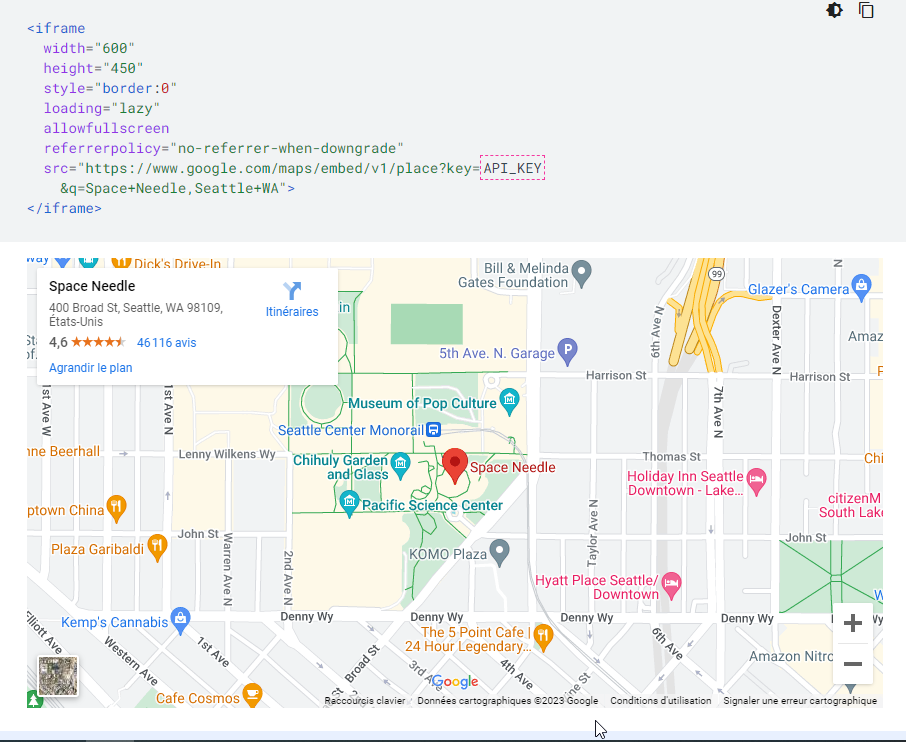
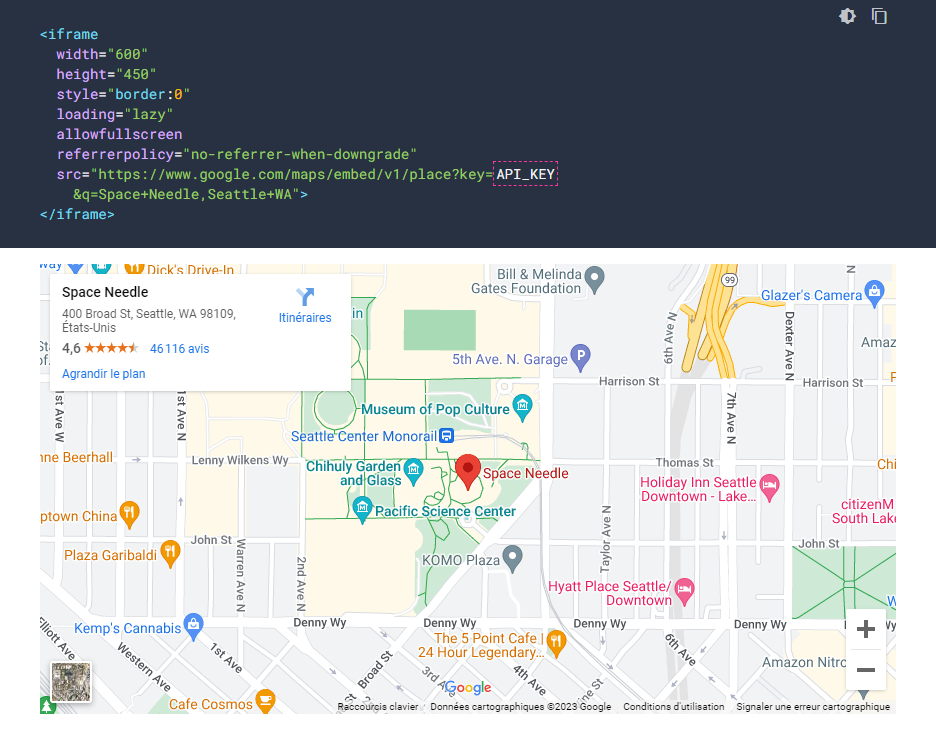
api changes

diff --git a/api2.css b/api2.css
@@ -1,0 +1,195 @@
+/* PARAMETRES GENERAUX */
+* {
+  padding: 0;
+  margin: 0;
+  box-sizing: border-box;
+}
+
+body {
+  display: flex;
+  flex-direction: column;
+  justify-content: space-between;
+  background: #fefefe;
+  font-family: "Lato", sans-serif;
+  width: 100%;
+  text-align: left;
+  overflow-x: hidden;
+}
+
+/* PARAMETRES HEADER */
+header {
+  width: 100vw;
+  display: flex;
+  align-items: center;
+  justify-content: space-evenly;
+  background: #1e1e1e;
+  padding: 5px 0 5px 50px;
+}
+
+/* PARAMETRES NAV */
+nav {
+  display: flex;
+  width: 100%;
+}
+
+nav ul {
+  display: flex;
+  list-style: none;
+  width: 100%;
+  justify-content: space-evenly;
+}
+
+nav a,
+nav a:visited {
+  color: #fefefe;
+  text-decoration: none;
+  font-weight: bold;
+  padding: 5px;
+  border-bottom: 2px solid #fefefe;
+}
+
+nav a:hover,
+nav a:visited:hover {
+  color: #7cc9f0;
+  border-bottom: 2px solid #7cc9f0;
+}
+
+/* PARAMETRES DU CONTENU */
+
+/* PARAMETRES FOOTER */
+
+footer {
+  width: 100%;
+  height: 5vh;
+  display: flex;
+  justify-content: center;
+  align-items: center;
+  background: #1e1e1e;
+  color: #fefefe;
+}
+
+footer a,
+footer a:visited {
+  color: #fefefe;
+  text-decoration: none;
+}
+
+footer a:hover {
+  color: #7cc9f0;
+}
+/**/
+
+h2 {
+  text-align: center;
+  margin-top: 10px;
+}
+h2 span {
+  color: #7cc9f0;
+}
+
+#logoHTML {
+  width: 10%;
+  margin: 20px auto;
+}
+
+.container {
+  width: 80%;
+  margin: auto auto;
+  display: flex;
+  flex-direction: column;
+}
+
+.container ul {
+  margin-bottom: 20px;
+}
+
+article {
+  width: 100%;
+  display: flex;
+  flex-direction: column;
+  align-items: center;
+}
+
+article img {
+  width: 20%;
+  display: flex;
+  align-content: center;
+  margin-bottom: 20px;
+}
+
+#imgGoogle {
+  width: 50%;
+  height: 50%;
+  display: flex;
+  align-content: center;
+  margin-top: 20px;
+}
+
+h4 {
+  margin: 10px 0;
+  text-align: center;
+  font-size: large;
+}
+
+h5:last-of-type {
+  margin: 20px 0;
+}
+
+h4:hover {
+  background-color: #7cc9f0;
+}
+
+.video {
+  margin: 0 auto 30px auto;
+  height: 70%;
+  width: 50%;
+}
+
+/* PARAMETRES RESPONSIVE */
+@media only screen and (orientation: portrait) {
+  /* HEADER RESPONSIVE */
+  header {
+    flex-direction: column;
+    padding: 0;
+  }
+  header img {
+    width: 100%;
+  }
+  nav {
+    padding: 5px;
+    font-size: 0.7em;
+    gap: 5px;
+  }
+  nav a,
+  nav a:visited {
+    padding: 2px;
+  }
+}
+
+@media only screen and (max-width: 950px) and (orientation: landscape) {
+  header {
+    flex-direction: column;
+    padding: 0;
+  }
+  header img {
+    width: 100%;
+  }
+  nav {
+    padding: 5px;
+    font-size: 0.7em;
+    gap: 5px;
+  }
+  nav a,
+  nav a:visited {
+    padding: 2px;
+  }
+}
+
+@media only screen and (max-width: 280px) and (orientation: portrait) {
+  nav a {
+    font-size: 0.8em;
+  }
+  footer {
+    font-size: 0.8em;
+  }
+}

diff --git a/api.html b/api.html
@@ -11,7 +11,7 @@
       href="https://fonts.googleapis.com/css2?family=Lato:ital,wght@0,100;0,300;0,400;0,700;0,900;1,100;1,300;1,400;1,700;1,900&display=swap"
       rel="stylesheet"
     />
-    <link rel="stylesheet" href="./style_page_html.css" />
+    <link rel="stylesheet" href="./api2.css" />
   </head>
   <body>
     <header>
